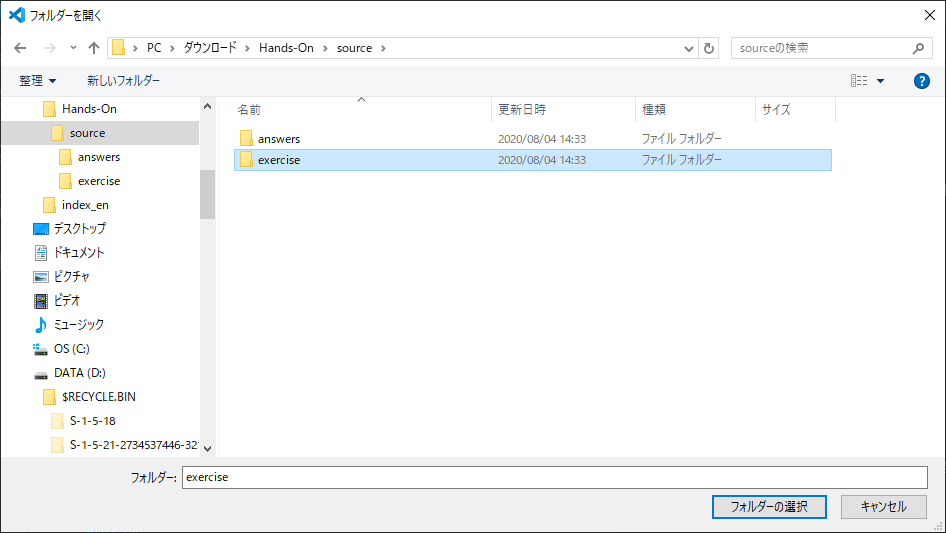
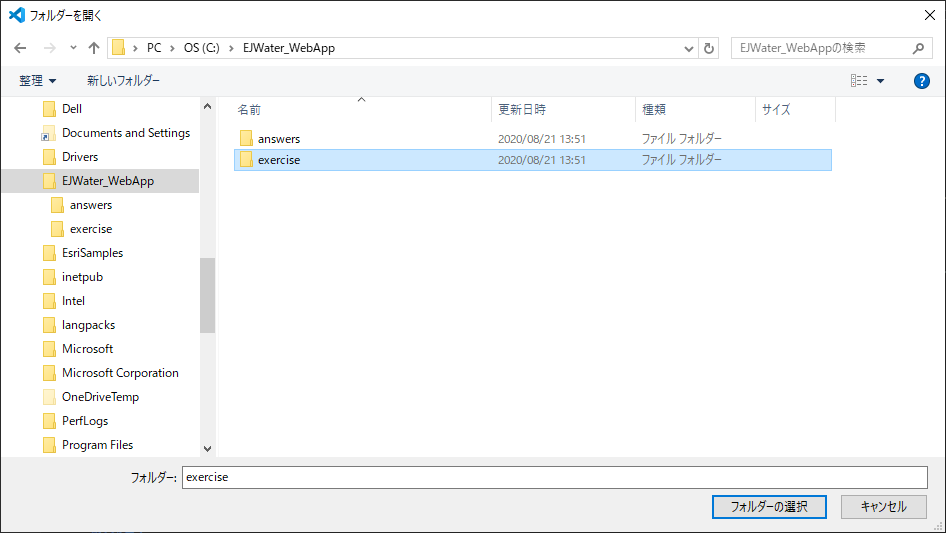
Add files via upload

diff --git a/20200825_app-development-hands-on/Session/3_DevelopWebApp/Step2.md b/20200825_app-development-hands-on/Session/3_DevelopWebApp/Step2.md
@@ -29,15 +29,15 @@ mapView = new MapView({
 
 上記の portalItem の id には「[ArcGIS Pro を使用した Web マップの作成](https://github.com/EsriJapan/workshops/tree/master/20200825_app-development-hands-on/Session/1_BuildData/ArcGISPro#arcgis-pro-%E3%82%92%E4%BD%BF%E7%94%A8%E3%81%97%E3%81%9F-web-%E3%83%9E%E3%83%83%E3%83%97%E3%81%AE%E4%BD%9C%E6%88%90)」のハンズオンで作成した Web マップ の ID を指定します。
 
-- ArcGIS Pro をお持ちの方 (ArcGIS Pro を使用した Web マップの作成)
+- Web マップは以下の2パターンで作成しているかと思いますので目的に応じて Web マップの ID を指定してください。
+
+  - ArcGIS Pro をお持ちの方 (ArcGIS Pro を使用した Web マップの作成)
 https://bit.ly/2WCVHyQ
 
-
-- ArcGIS Pro をお持ちでない方 (ArcGIS Online を使用した Web マップの作成)
+  - ArcGIS Pro をお持ちでない方 (ArcGIS Online を使用した Web マップの作成)
 https://bit.ly/2Dl74EB
- 
 
-もし、作成ができていない方は、以下の Web マップ の ID（ハンズオン限定で公開）を使用してください。
+もし、事前に作成ができていない方は、以下の Web マップ の ID（ハンズオン限定で公開）を使用してください。
 
 - 8e285147abe044cb851fbec6a1bed5cd
 
@@ -64,9 +64,6 @@ http://127.0.0.1:5500/calcite-maps/index.html
 Step 2 はここまでです。  
 
 ### Step2 のまとめ
-
-参照している Web マップは、演習の [Python スクリプトによるホスト フィーチャ レイヤーのアップデート](https://github.com/EsriJapan/workshops/blob/master/20200825_app-development-hands-on/Session/1_BuildData/Python/0826/update_fl.md#%E6%BC%94%E7%BF%92%E3%81%AE%E7%9B%AE%E7%9A%84)で行ったようにデータ更新の自動化・定期実行でデータ完全性を保っているため、Web アプリで参照するデータは常に最新のデータを参照することができます。
-
 Map と View の関係は、Map はレイヤーを管理し、View はスクリーン上に Map を描画します。マップは、作成した Map を View に設定することでページに表示されます。  
 また、Map の作成には、Map クラスを使用してベースマップなどを指定して
 作成する場合と上記のように Web マップを指定して利用する方法があります。
@@ -94,6 +91,9 @@ const map = new WebMap({
   - [WebMap](https://developers.arcgis.com/javascript/latest/api-reference/esri-WebMap.html)
   - [View](https://developers.arcgis.com/javascript/latest/api-reference/esri-views-MapView.html) 
 
+<br/>
+
+参照している Web マップは、演習の [Python スクリプトによるホスト フィーチャ レイヤーのアップデート](https://github.com/EsriJapan/workshops/blob/master/20200825_app-development-hands-on/Session/1_BuildData/Python/0826/update_fl.md#%E6%BC%94%E7%BF%92%E3%81%AE%E7%9B%AE%E7%9A%84)で行ったようにデータ更新の自動化・定期実行でデータ完全性を保っているため、Web アプリで参照するデータは常に最新のデータを参照することができます。
 
 次の Step3 は、「[Step3：標準ウィジェットの実装](./Step3.md#Step3標準ウィジェットの実装) 」をご参照ください。
    

diff --git a/20200825_app-development-hands-on/Session/3_DevelopWebApp/Step1.md b/20200825_app-development-hands-on/Session/3_DevelopWebApp/Step1.md
@@ -1,7 +1,24 @@
 ## Step1：ハンズオンの準備
-### 演習の目的
-- 開発環境の構築方法の習得
-  - ハンズオンで使用するソースコードの配置を行い、Visual Studio Code で開いてソースコードの表示を行います。
+### はじめに
+- 本ハンズオンでは、Esri が提供している Calcite Map と ArcGIS API for JavaScript を使用して、ウィジェット開発を行います。ここでは、ハンズオンで使用するソースコードの配置を行い、Visual Studio Code でソースコードを開き、開発の準備を行います。
+
+### Calcite Map とは？
+Esri がオープンソースとして提供しており、Bootstrap をテーマを使用しているため、レスポンシブでモダンなマップアプリを開発することができます。
+
+|<img src="./img/calcite_map.png" width="600">|
+|:-:|
+
+http://esri.github.io/calcite-maps/samples/index.html
+
+### ArcGIS API for JavaScript が提供するウィジェットについて
+ウィジェットとは、ArcGIS API for JavaScript が提供している GIS 機能を兼ね備えた UI コンポーネントです。  ArcGIS API for JavaScript では、GIS でよく使用するウィジェットを標準で幾つか提供しているので、ウィジェットを活用することで GIS の機能と同時にリッチな UI を Web マッピングアプリケーションに簡単に組み込むことができます。
+
+詳細は、GeoNet ブログ [続編-はじめてのweb-マッピングアプリケーション開発-ウィジェット編](
+https://community.esri.com/docs/DOC-14692)をご参照ください。 
+
+<br/>
+
+以下の手順に従って開発の準備を行います。
 
 ### 1. 開発の準備
 
@@ -9,15 +26,15 @@
 
 ### 2. アプリの配置
 
-[本ハンズオンで使用するアプリはこちらでダウンロードできます](https://github.com/tkamiya0625/workshops/raw/master/20200825_app-development-hands-on/Session/3_DevelopWebApp/HandsOn_WebApp.zip)
+[本ハンズオンで使用するアプリはこちらでダウンロードできます](https://github.com/tkamiya0625/workshops/raw/master/20200825_app-development-hands-on/Session/3_DevelopWebApp/EJWater_WebApp.zip)
 
-上記リンクでダウンロードする HandsOn_WebApp.zip を任意の場所（作業フォルダ等）に配置して解凍してください。HandsOn_WebApp.zip 内の calcite-maps フォルダがプロジェクトです。  
+上記リンクでダウンロードする EJWater_WebApp.zip を任意の場所（例 C：\EJWater_WebApp）に配置して解凍してください。EJWater_WebApp.zip 内の calcite-maps フォルダがプロジェクトになります。 
 
 - ハンズオン用のアプリ
-  - HandsOn_WebApp.zip\source\exercise\calcite-maps
+  - EJWater_WebApp\exercise\calcite-maps
 
 - 解答用のアプリ
-  - HandsOn_WebApp.zip\source\answer\calcite-maps
+  - EJWater_WebApp\answer\calcite-maps
 
 上記のダウンロードしたアプリ (ハンズオン用) を Visual Studio Code を使用して開きます。
 
